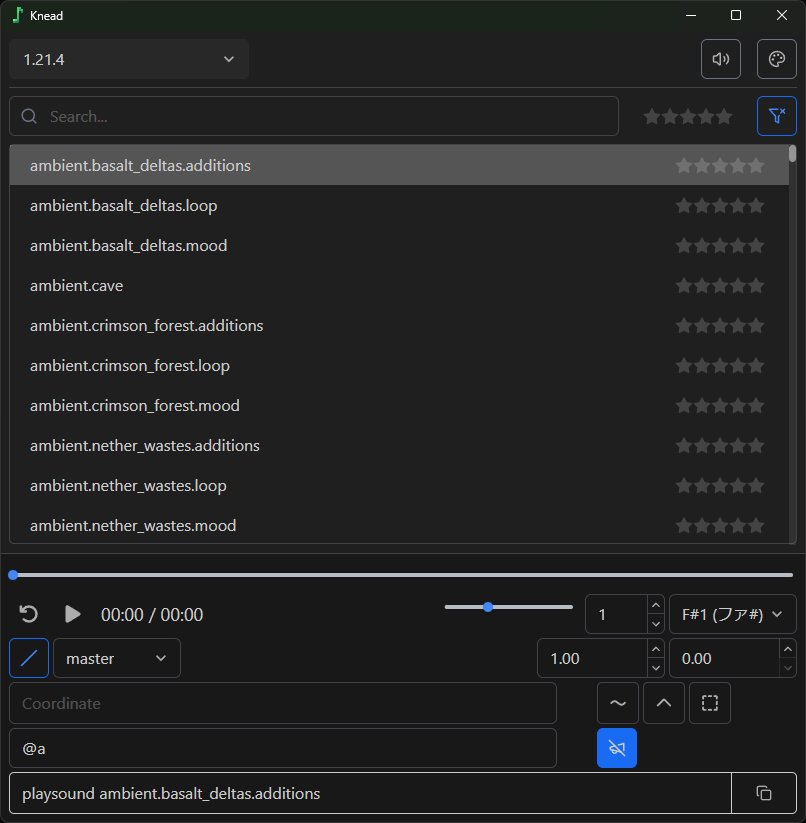
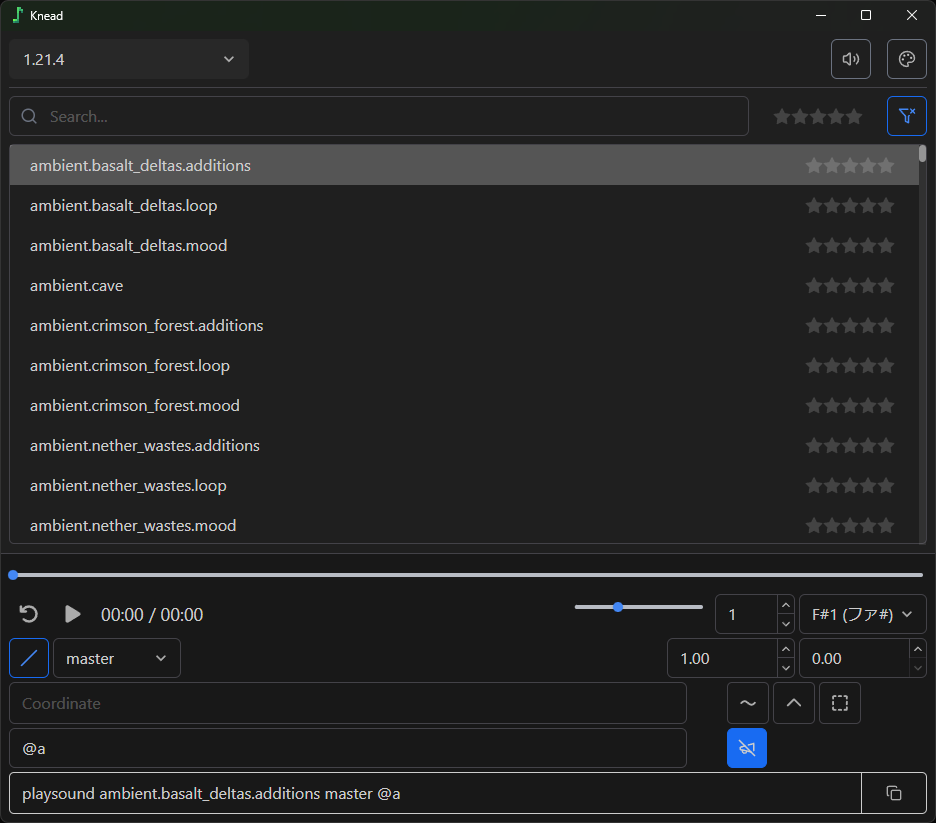
へんこー

diff --git a/src/web/Footer.tsx b/src/web/Footer.tsx
@@ -191,12 +191,14 @@ export const Footer = () => {
 
 
   // コマンド生成
+  // 1.20.5以降はsourceとselectorを省略できるようになった
+  //
   const command = selectedSound != "" ? (
     [
       (SlashSwitch ? "/" : "") + "playsound",
       selectedSound,
-      ((PlaySource == "master" && Coordinate == "" && MaxVolume == 1 && Pitch == 1 && MinVolume == 0) ? "" : PlaySource),
-      ((Selector == "@a" && Coordinate == "" && MaxVolume == 1 && Pitch == 1 && MinVolume == 0) ? "" : Selector),
+      ((PlaySource == "master" && Selector == "@s" && Coordinate == "" && MaxVolume == 1 && Pitch == 1 && MinVolume == 0) ? "" : PlaySource),
+      ((Selector == "@s" && Coordinate == "" && MaxVolume == 1 && Pitch == 1 && MinVolume == 0) ? "" : Selector),
       ((Coordinate == "" && MaxVolume == 1 && Pitch == 1 && MinVolume == 0) ? "" : Coordinate),
       ((MaxVolume == 1 && Pitch == 1 && MinVolume == 0) ? "" : MaxVolume),
       ((Pitch == 1 && MinVolume == 0) ? "" : Pitch),
